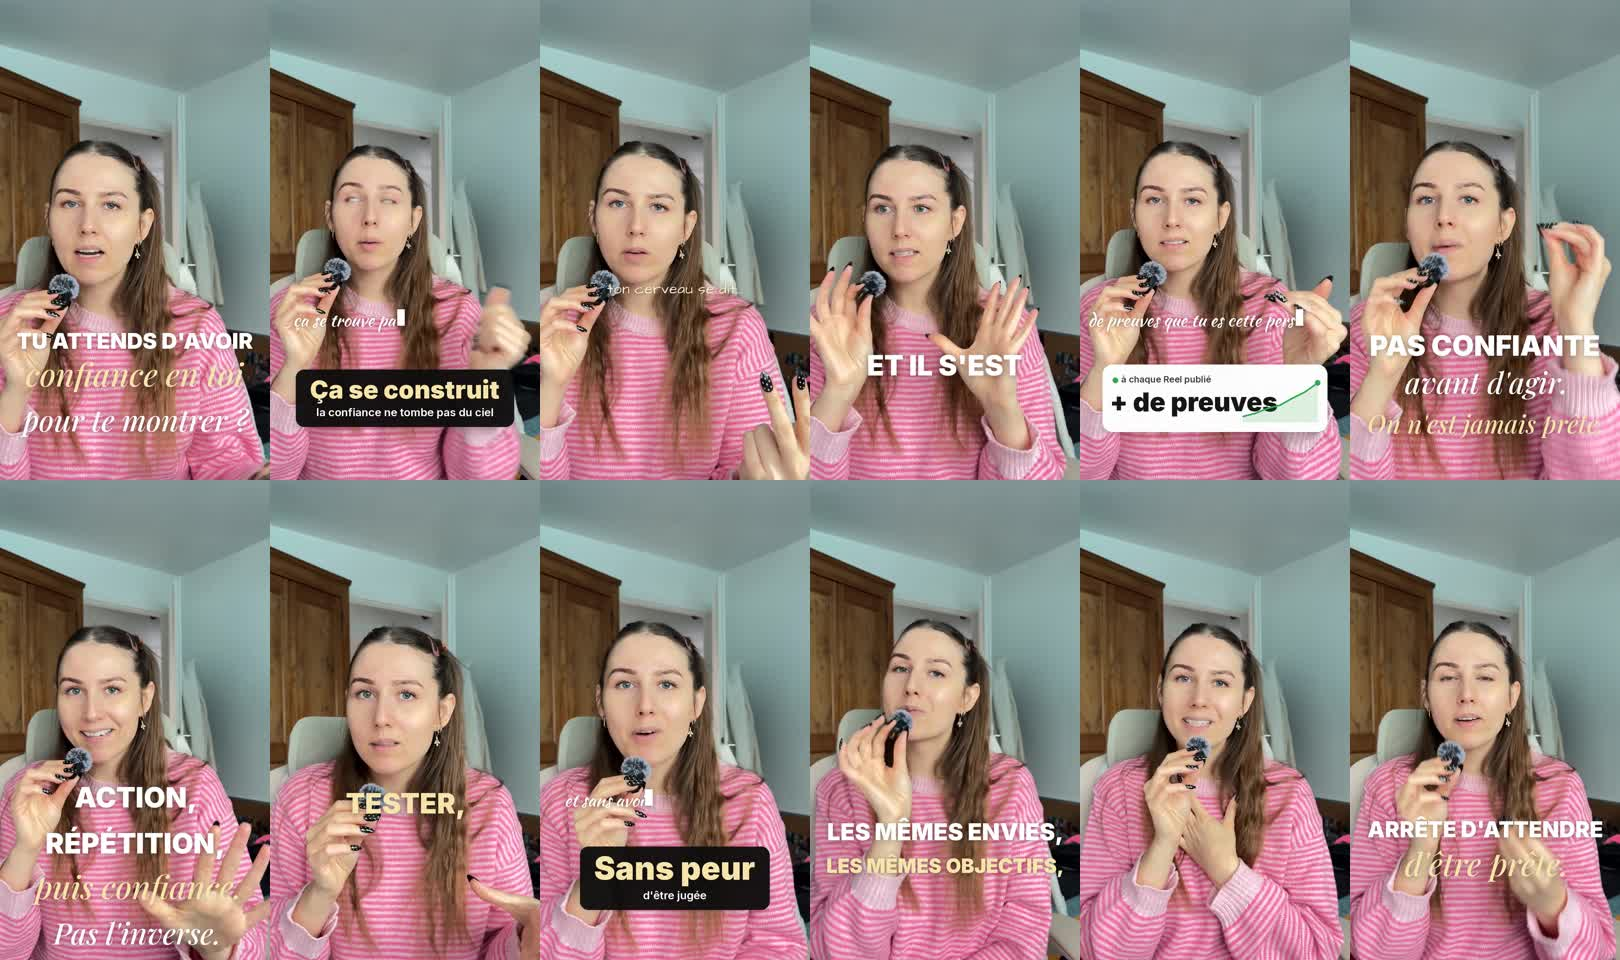
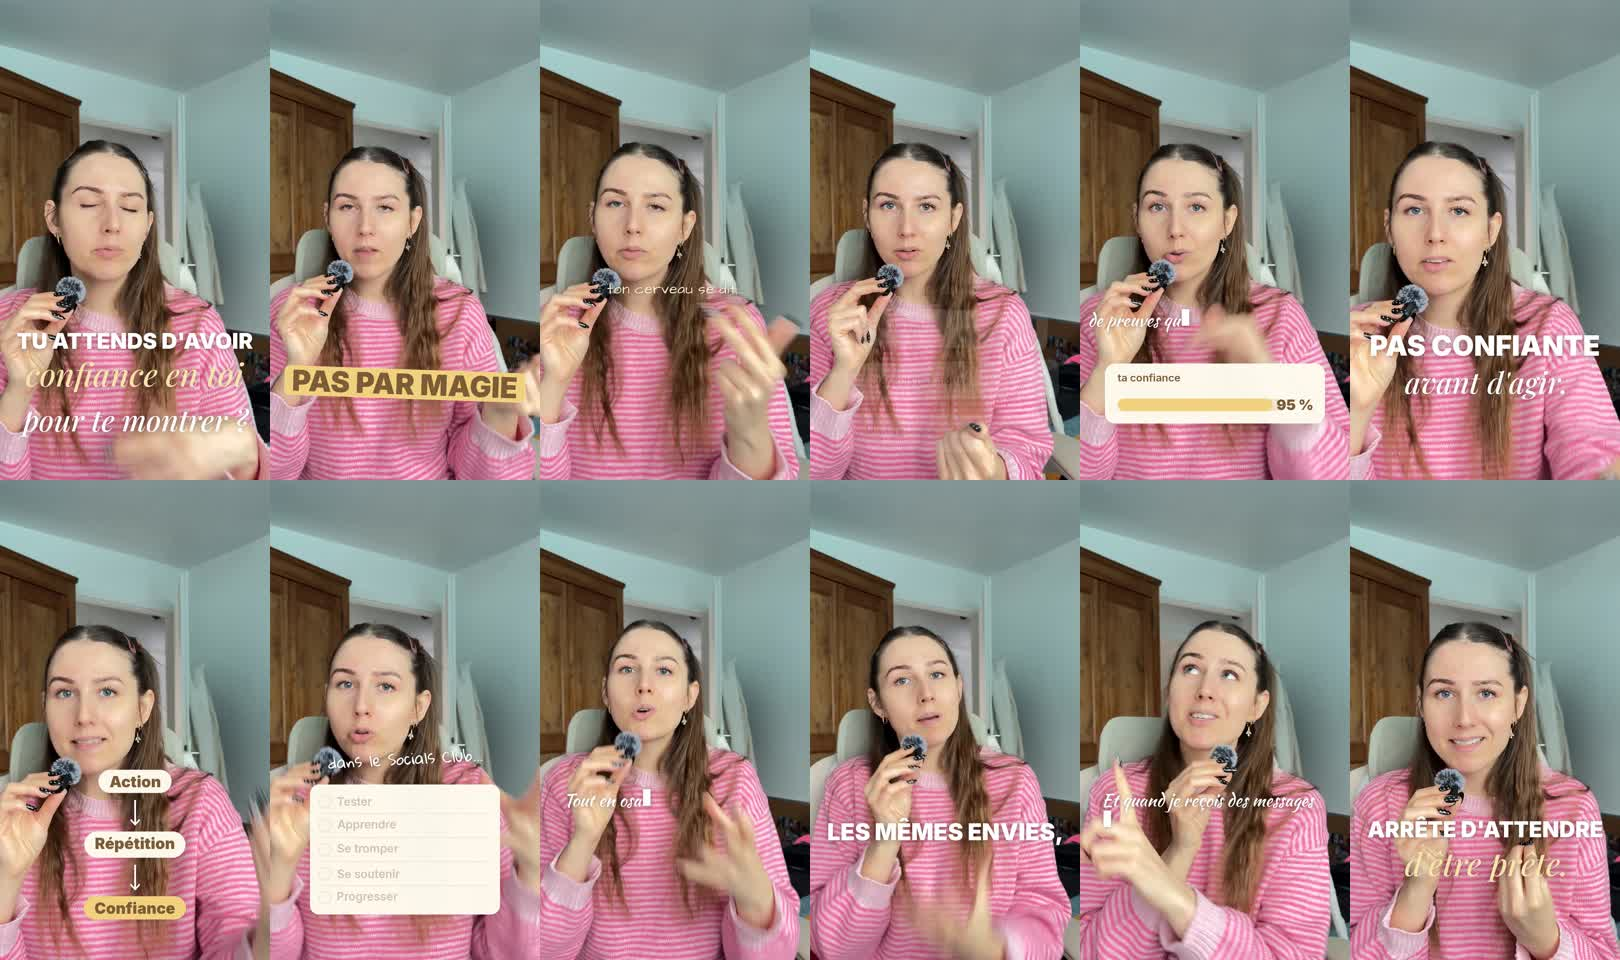
Reel « confiance en soi » v2 : rythme posé, effets clairs, sans encarts noirs
- Rythme naturel + respiration gardée en fin de phrase (71 s → 84 s)
- Nouveaux effets à la charte crème/jaune/caramel : jauge, checklist,
  surligneur, cycle Action → Répétition → Confiance
- Option pause_fin_phrase dans render_hd.py

Claude-Session: https://claude.ai/code/session_012NkAd1wG6jbdEjUqjXMrbx

diff --git a/tools/reel_v2.py b/tools/reel_v2.py
@@ -651,8 +651,176 @@ class ScreenRec(El):
         if self.lab:
             put(c, self.lab, W / 2, cy - spr.height / 2 + 6, alpha=ease_out((t - self.t0 - 0.3) / 0.3) * out)
 
+
+# ───────────── effets clairs (charte SKR : crème / jaune / caramel, jamais de noir) ─────────────
+CARD = (255, 250, 238, 250)
+TRACK = (240, 228, 204, 255)
+GOLD = (242, 210, 127, 255)
+CARAMEL = (122, 91, 56, 255)
+
+
+class Progress(El):
+    """Carte crème + jauge jaune qui se remplit par paliers (la confiance qui se construit)."""
+
+    def __init__(self, s, T):
+        super().__init__(s, T)
+        self.lab = text_spr(s["label"], "semi", 42, CARAMEL, shadow=False)
+        self.paliers = [(T(p["at"]), p["valeur"]) for p in s["paliers"]]
+        self.y = s.get("y", 0.8) * H
+        self.sfx = [(self.t0, "woosh", 0.3)] + [(ta, "pop", 0.4) for ta, _ in self.paliers]
+
+    def level(self, t):
+        v, prev, t_prev = 0.0, 0.0, self.t0
+        for ta, val in self.paliers:
+            if t >= ta:
+                prev, t_prev, v = val, ta, val
+        # easing vers le dernier palier atteint
+        k = ease_out((t - t_prev) / 0.5)
+        before = 0.0
+        for ta, val in self.paliers:
+            if ta < t_prev:
+                before = val
+        return before + (v - before) * k
+
+    def draw(self, c, t):
+        inn, out = self.life(t)
+        cw, ch = 880, 240
+        img = rrect((cw, ch), 40, CARD)
+        img.alpha_composite(self.lab, (50, 40))
+        d = ImageDraw.Draw(img)
+        x0, y0, x1, y1 = 50, 140, cw - 180, 190
+        d.rounded_rectangle((x0, y0, x1, y1), 25, fill=TRACK)
+        v = self.level(t)
+        if v > 0.01:
+            d.rounded_rectangle((x0, y0, x0 + max(50, (x1 - x0) * v), y1), 25, fill=GOLD)
+        pc = text_spr(f"{int(round(v * 100))} %", "black", 58, CARAMEL, shadow=False)
+        img.alpha_composite(pc, (cw - 50 - pc.width, 165 - pc.height // 2))
+        put(c, shadowed(img, 18, (0, 10), 70), W / 2, self.y + 70 * (1 - ease_out(inn)),
+            scale=0.85 + 0.15 * ease_back(inn), alpha=min(1, inn * 2) * out)
+
+
+class Checklist(El):
+    """Titre manuscrit + liste crème dont chaque ligne se coche en jaune au moment où elle est dite."""
+    hides_caps = True
+
+    def __init__(self, s, T):
+        super().__init__(s, T)
+        self.head = text_spr(s["titre"], "hand_b", 62, WHITE) if s.get("titre") else None
+        self.items = [(text_spr(it["text"], "semi", 46, CARAMEL, shadow=False), T(it["at"])) for it in s["items"]]
+        self.y = s.get("y", 0.76) * H
+        self.sfx = [(self.t0, "woosh", 0.3)] + [(ta, "click2", 0.6) for _, ta in self.items]
+
+    def draw(self, c, t):
+        inn, out = self.life(t)
+        rh_ = 96
+        cw, ch = 760, rh_ * len(self.items) + 40
+        img = rrect((cw, ch), 36, CARD)
+        d = ImageDraw.Draw(img)
+        for k, (spr, ta) in enumerate(self.items):
+            cy = 20 + k * rh_ + rh_ // 2
+            u = (t - ta) / 0.3
+            if k:
+                d.line((40, 20 + k * rh_, cw - 40, 20 + k * rh_), fill=TRACK, width=3)
+            r = 26
+            if u >= 0:
+                rr = r * (0.6 + 0.4 * ease_back(min(1, u)))
+                d.ellipse((60 - rr, cy - rr, 60 + rr, cy + rr), fill=GOLD)
+                if u > 0.4:
+                    d.line((48, cy, 57, cy + 10, 74, cy - 10), fill=CARAMEL, width=7, joint="curve")
+                a = 1.0
+            else:
+                d.ellipse((60 - r, cy - r, 60 + r, cy + r), outline=TRACK, width=5)
+                a = 0.35
+            lay = spr.copy(); lay.putalpha(lay.getchannel("A").point(lambda v, a=a: int(v * a)))
+            img.alpha_composite(lay, (110, cy - spr.height // 2))
+        spr = shadowed(img, 18, (0, 10), 70)
+        y = self.y
+        if self.head:
+            put(c, self.head, W / 2, y - spr.height / 2 - 50, alpha=ease_out((t - self.t0) / 0.3) * out, rot=3)
+        put(c, spr, W / 2, y + 60 * (1 - ease_out(inn)), scale=0.9 + 0.1 * ease_back(inn), alpha=min(1, inn * 2) * out)
+
+
+class Marker(El):
+    """Mot en capitales caramel sur un coup de surligneur jaune qui balaie de gauche à droite."""
+    hides_caps = True
+
+    def __init__(self, s, T):
+        super().__init__(s, T)
+        self.txt = text_spr(s["text"].upper(), "black", s.get("taille", 120), CARAMEL, shadow=False)
+        if self.txt.width > 900:
+            self.txt = text_spr(s["text"].upper(), "black", int(s.get("taille", 120) * 900 / self.txt.width), CARAMEL, shadow=False)
+        self.sub = text_spr(s["sub"], "hand_b", 64, WHITE) if s.get("sub") else None
+        self.t_sub = T(s["sub_at"]) if "sub_at" in s else self.t0 + 0.6
+        self.y = s.get("y", 0.78) * H
+        self.sfx = [(self.t0, "woosh", 0.35)] + ([(self.t_sub, "pop", 0.3)] if self.sub else [])
+
+    def draw(self, c, t):
+        inn, out = self.life(t)
+        pw, ph = self.txt.width + 70, self.txt.height + 46
+        img = Image.new("RGBA", (pw, ph), (0, 0, 0, 0))
+        u = ease_out((t - self.t0) / 0.4)
+        if u > 0:
+            ImageDraw.Draw(img).rounded_rectangle((0, 8, max(20, pw * u), ph - 8), 18, fill=GOLD)
+        a = ease_out((t - self.t0 - 0.15) / 0.25)
+        lay = self.txt.copy(); lay.putalpha(lay.getchannel("A").point(lambda v: int(v * a)))
+        img.alpha_composite(lay, (35, 23))
+        put(c, shadowed(img, 14, (0, 6), 60), W / 2, self.y, alpha=out, rot=-2)
+        if self.sub:
+            x = ease_out((t - self.t_sub) / 0.35)
+            put(c, self.sub, W / 2 + 60, self.y + ph / 2 + 40, alpha=x * out, rot=-3)
+
+
+class Cycle(El):
+    """Pastilles qui apparaissent l'une sous l'autre, reliées par des flèches dessinées (A → B → C)."""
+    hides_caps = True
+
+    def __init__(self, s, T):
+        super().__init__(s, T)
+        self.steps = []
+        for k, st in enumerate(s["etapes"]):
+            last = k == len(s["etapes"]) - 1
+            tx = text_spr(st["text"], "black", 62, CARAMEL, shadow=False)
+            pill = rrect((tx.width + 90, tx.height + 44), (tx.height + 44) // 2, GOLD if last else CARD)
+            pill.alpha_composite(tx, (45, 22))
+            self.steps.append((shadowed(pill, 14, (0, 8), 70), T(st["at"])))
+        self.foot = text_spr(s["fin_texte"], "hand_b", 66, WHITE) if s.get("fin_texte") else None
+        self.t_foot = T(s["fin_at"]) if "fin_at" in s else self.t1 - 1
+        self.gap = 70
+        self.y = s.get("y", 0.75) * H
+        self.sfx = [(ta, "pop", 0.4) for _, ta in self.steps] + ([(self.t_foot, "notif2", 0.35)] if self.foot else [])
+
+    def draw(self, c, t):
+        _, out = self.life(t)
+        hs = [sp.height for sp, _ in self.steps]
+        tot = sum(hs) + self.gap * (len(hs) - 1)
+        y = self.y - tot / 2
+        ov = Image.new("RGBA", (W, H), (0, 0, 0, 0))
+        d = ImageDraw.Draw(ov)
+        centers = []
+        for (sp, ta), h in zip(self.steps, hs):
+            centers.append((y + h / 2, ta, sp))
+            y += h + self.gap
+        for k in range(1, len(centers)):
+            (ya, _, spa), (yb, tb, _) = centers[k - 1], centers[k]
+            p = ease_out((t - (tb - 0.35)) / 0.3)
+            if p > 0:
+                y0, y1 = ya + spa.height / 2 - 14, yb - centers[k][2].height / 2 + 14
+                ye = y0 + (y1 - y0) * p
+                d.line((W / 2, y0, W / 2, ye), fill=(255, 255, 255, int(255 * out)), width=7)
+                if p > 0.95:
+                    d.line((W / 2 - 18, ye - 20, W / 2, ye, W / 2 + 18, ye - 20), fill=(255, 255, 255, int(255 * out)), width=7, joint="curve")
+        c.alpha_composite(ov)
+        for cy, ta, sp in centers:
+            u = (t - ta) / 0.35
+            if u >= 0:
+                put(c, sp, W / 2, cy, scale=0.6 + 0.4 * ease_back(min(1, u)), alpha=min(1, u * 2) * out)
+        if self.foot:
+            x = ease_out((t - self.t_foot) / 0.35)
+            put(c, self.foot, W / 2 + 120, y - self.gap + 50, alpha=x * out, rot=-5)
+
 TYPES = {"kinetic": Kinetic, "chapitre": Chapter, "carte_noire": DarkCard, "resultat": ResultCard,
-         "dm": DMStack, "telephone": Phone, "menu": Sheet, "commentaire": CommentCTA, "note": Note, "photos": Photos, "capture": Capture, "ecran": ScreenRec}
+         "dm": DMStack, "telephone": Phone, "menu": Sheet, "commentaire": CommentCTA, "note": Note, "photos": Photos, "capture": Capture, "ecran": ScreenRec,
+         "jauge": Progress, "checklist": Checklist, "surligneur": Marker, "cycle": Cycle}
 
 
 # ───────────────────── sous-titres : phrase entière, frappe manuscrite + curseur ─────────────────────

diff --git a/tools/render_hd.py b/tools/render_hd.py
@@ -69,8 +69,13 @@ def plan(tr, ed):
 
     # intervalles gardés : chaque mot + marges, sans jamais mordre sur un mot supprimé
     ivs = []
+    pause = ed.get("pause_fin_phrase", 0.0)  # respiration gardée après . ? ! , (s)
     for w in kept:
         lo, hi = w["start"] - pb, w["end"] + pa
+        if pause and w["text"].rstrip().endswith((".", "?", "!", ",", ":")):
+            nxt = [x for x in words if x["i"] > w["i"]]
+            room = (nxt[0]["start"] - w["end"]) if nxt else pause
+            hi = w["end"] + max(pa, min(pause * (1 if w["text"].rstrip()[-1] in ".?!:" else 0.5), room - pb))
         if w["i"] > 0 and words[w["i"] - 1]["i"] in dropped:
             lo = max(lo, (words[w["i"] - 1]["end"] + w["start"]) / 2)
         if w["i"] + 1 < len(words) and words[w["i"] + 1]["i"] in dropped:
